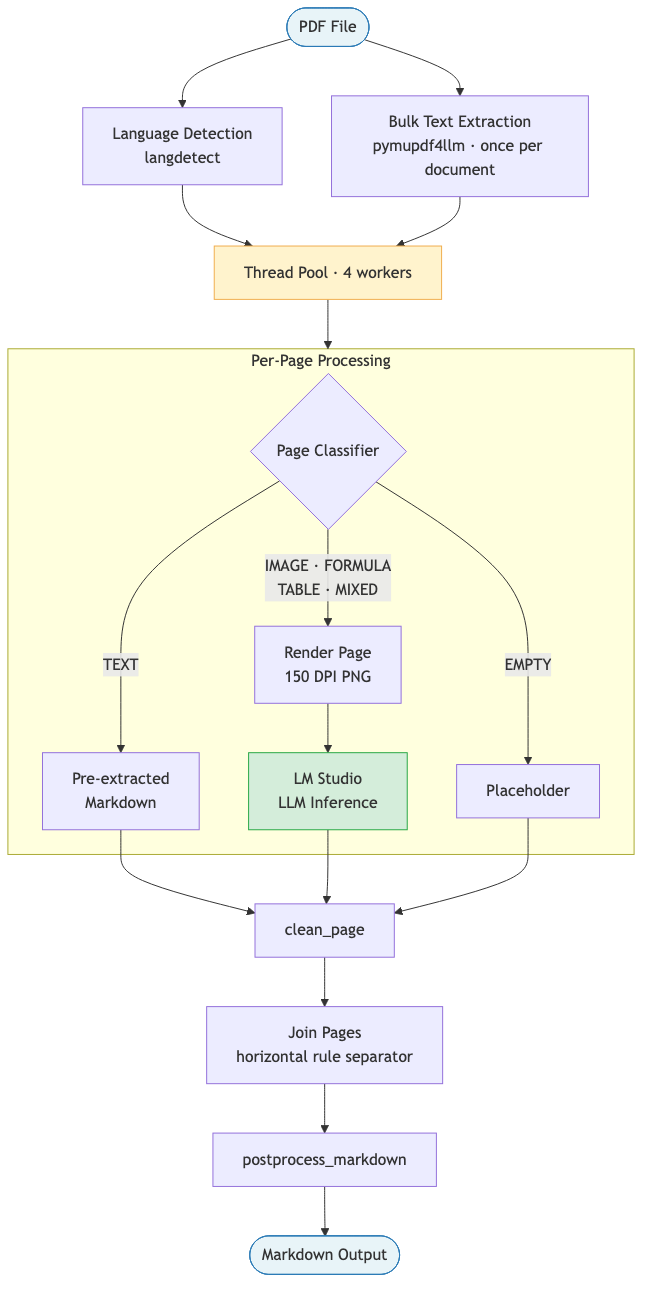
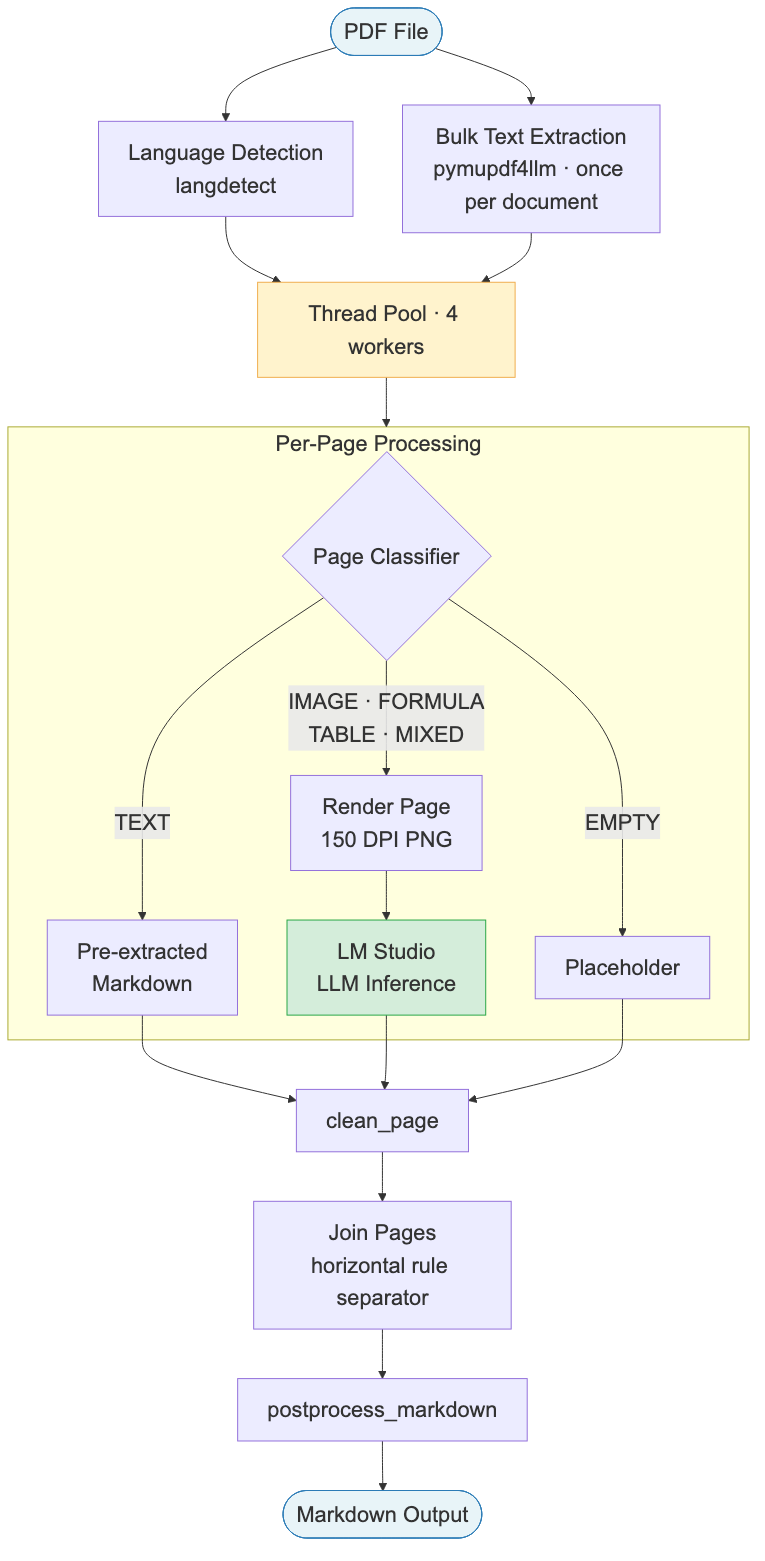
Apply professor feedback for Chapter 5: figures, postprocessing, confidence scores
Figures:
- Re-render all three diagrams at 3500px width, 22px font (text was too small)
- Add float package to preambel.tex for [H] placement
- Figure 5.1: sized to 75% textwidth, forced to end of Section 5.1
- Figure 5.2: sized to 65% textwidth; add TEXT→MIXED reroute arrow for formula images
- Figure 5.3: moved to directly after Figure 5.2, sized to 48% with height cap
- Figure 5.3 caption: rewritten to describe both pipeline stages precisely

Postprocessing section (Section 5.5):
- Restructure from dense rule list into 4 clearly labelled groups:
  structural noise, LLM artefacts, heading quality, special content
- Fix TOC handling description: adaptive TOC uses doc.get_toc() short-circuit,
  not pymupdf4llm (was factually wrong)
- Add Stage 2 closing paragraph describing postprocess_markdown passes

Postprocessing diagram:
- Remove wrong pass counts (12/5 were inaccurate)
- Fix Stage 2 items: remove abbreviation conversion and unicode superscript
  (both are Stage 1); add actual Stage 2 passes: duplicate heading removal,
  chapter heading merging, LaTeX delimiter normalisation, bibliography cleanup
- Fix Stage 1 B4: add doc.get_toc(), Greek→LaTeX, OCR superscripts

Confidence scores (Section 5.2):
- Explicitly state scores play no role in current routing (routes by type label)
- Explain why: rule-based classifier is deterministic, threshold would not help
- Mention future use for MIXED 0.5 fallback pages

Overfull hbox (Section 5.3):
[…]

diff --git a/Thesis_Paper/kapitel/kapitel5.tex b/Thesis_Paper/kapitel/kapitel5.tex
@@ -30,9 +30,9 @@ The post-processing pipeline receives the joined Markdown and applies a fixed se
 
 Figure~\ref{fig:architecture} shows the complete processing pipeline.
 
-\begin{figure}[ht]
+\begin{figure}[H]
     \centering
-    \includegraphics[width=\textwidth,height=0.55\textheight,keepaspectratio]{architecture.png}
+    \includegraphics[width=0.75\textwidth]{architecture.png}
     \caption{System architecture: from PDF input to Markdown output}
     \label{fig:architecture}
 \end{figure}
@@ -66,15 +66,22 @@ TEXT pages score the highest at 0.95. To reach that classification, a page must 
 EMPTY and IMAGE pages score 0.9. EMPTY requires fewer than ten characters, no images, and fewer than five vector paths, which is a very narrow condition. IMAGE requires more than three embedded images, which rarely appears on a text-heavy page.
 FORMULA and TABLE score 0.85 because both detectors can misfire. Vector paths above the threshold sometimes come from decorative page elements rather than formulas. PyMuPDF's table finder occasionally flags dense grid layouts that are not real tables.
 MIXED pages score either 0.75 or 0.5. Pages that carry image or formula signals but did not qualify for IMAGE, FORMULA, or TABLE --- for example, a page with one or two embedded images alongside substantial text --- score 0.75. The fallback MIXED at 0.5 catches the remaining pages: fewer than 50 characters with no images, no formulas, and no detected tables. No signal was strong enough to assign a more specific type.
-The score is stored in the \texttt{PageAnalysis} result but the current routing ignores it. A future version could use it to fall back to the hybrid strategy on low-confidence pages.
+The confidence score is stored in the \texttt{PageAnalysis} result but plays no role in the current routing logic. Pages are routed by type label alone, regardless of score. This is intentional: the rule-based classifier is deterministic, so the same signals always produce the same type and a score threshold would not change any routing decision. A future version could use the score to fall back to the hybrid strategy on genuinely ambiguous pages, where the MIXED 0.5 fallback fires.
 
 Figure~\ref{fig:classifier} shows the full decision tree.
 
 \begin{figure}[ht]
     \centering
-    \includegraphics[width=0.82\textwidth,height=0.75\textheight,keepaspectratio]{classifier.png}
+    \includegraphics[width=0.65\textwidth]{classifier.png}
     \caption{Page classifier decision tree with confidence scores}
     \label{fig:classifier}
+\end{figure}
+
+\begin{figure}[ht]
+    \centering
+    \includegraphics[width=0.48\textwidth]{postprocessing.png}
+    \caption{Two-stage post-processing pipeline: \texttt{clean\_page} applies structural, LLM artefact, heading, and special-content passes per page; \texttt{postprocess\_markdown} applies heading, running-header, and encoding passes to the full joined document}
+    \label{fig:postprocessing}
 \end{figure}
 
 \section{PDF Processing Module}
@@ -97,7 +104,7 @@ Each line's dominant font size is then compared to the body size as a ratio: lin
 This produces a lightweight Markdown representation of the text layer that the LLM receives alongside the rendered image.
 
 Image rendering converts each page to a base64-encoded PNG using PyMuPDF's pixmap renderer.
-The render resolution is 150 dots per inch (DPI), set via a \texttt{fitz.Matrix(150/72,~150/72)} scale factor, which is about twice the PDF native resolution of 72 DPI.
+The render resolution is 150 dots per inch (DPI), set via a \texttt{fitz.Matrix} scale factor of $150/72$ in both dimensions, which is about twice the PDF native resolution of 72 DPI.
 The higher resolution preserves fine detail in tables, formulas, and diagrams, which improves LLM recognition accuracy.
 The encoded string is passed directly in the API request body as a data URI, so no temporary files are written to disk for vision pages.
 The render DPI is a configurable constant, so it can be raised for documents with very dense content or lowered to reduce memory use.
@@ -147,42 +154,40 @@ The first stage runs per page via \texttt{clean\_page()}, before individual page
 The second stage runs on the full joined document via \texttt{postprocess\_markdown()}.
 Separating the two stages matters because some artefacts, such as duplicate running headers, only become visible once multiple pages are combined.
 
-The first group of passes removes structural noise introduced by the PDF format.
-Running headers are repeated chapter or section titles that PDF places at the top of every page; pymupdf4llm extracts these as plain-text lines, which the pipeline detects using a regex pattern and removes from the first line of each page chunk.
-A second pass removes them again mid-document, where they appear as isolated paragraphs surrounded by blank lines.
-Lone page-number paragraphs consisting of one to three Arabic digits or Roman numerals are also stripped.
-Several further passes remove artefacts specific to LLM output.
-One strips decorative horizontal rules that appear directly after a heading, which come from PDF underlines misread as Markdown separators.
-Another removes prompt instruction text that some models copy verbatim into their output.
-A third strips \texttt{```markdown} fences that some models place around their entire response: the fence is valid syntax for a code block but not for the top-level document.
-Table-of-contents pages and front-matter list pages (List of Figures, List of Tables, List of Listings, and the abbreviations list) each receive a dedicated pass.
-These pages are classified as TEXT and processed entirely by pymupdf4llm without invoking the LLM.
-The postprocessing pass converts the pipe-table structure that pymupdf4llm produces into a clean nested Markdown list, inferring heading hierarchy from section-number prefixes, and removes dot leaders, the sequences of dots or spaces used to connect section titles to page numbers in a printed layout, which have no meaning in Markdown.
+The first group removes structural noise introduced by the PDF format.
+Running headers are repeated chapter or section titles that PDF places at the top of every page.
+pymupdf4llm extracts these as plain-text lines; the pipeline detects them by pattern and removes them from the first line of each page chunk.
+Lone page-number paragraphs consisting of Arabic digits or Roman numerals are also stripped.
 
-The second group targets heading quality.
+The second group removes artefacts specific to LLM output.
+Decorative horizontal rules that appear directly after a heading are stripped; these come from PDF underlines misread as Markdown separators.
+Prompt instruction text that some models copy verbatim into their output is removed.
+\texttt{```markdown} fences that some models place around their entire response are stripped: the fence is valid syntax for a code block but not for the top-level document.
+
+The third group targets heading quality.
 pymupdf4llm often collapses all headings to the same level (\texttt{\#\#}), so the pipeline re-assigns levels based on section-number patterns: a line matching \texttt{1.1.1 Title} becomes \texttt{\#\#\#}, a line matching \texttt{1.1 Title} becomes \texttt{\#\#}, and a standalone chapter title becomes \texttt{\#}.
-A separate pass merges the cases where the section number and its title were emitted as two consecutive heading lines at the same level.
-A further pass handles cases where pymupdf4llm emits a bare section number with no title text, for example \texttt{\#\# 1.1} with nothing after it. The pipeline looks up the full section title in the raw PyMuPDF text for the same page and patches the heading, recovering titles that the layout extraction missed.
-Headings that are single words with no recognised structural keyword (such as a person's name promoted by bold font), headings whose entire content is italic, and headings that are really numbered source-code listing lines are all demoted to plain or list text.
-Title-page metadata lines promoted by bold styling are demoted to plain text by identifying everything before the first structural front-matter section (Erkl\"{a}rung, Abstract, Inhaltsverzeichnis).
-Duplicate headings produced by mid-document running headers are removed by tracking all seen heading texts and dropping any unnumbered repetition of an already-seen numbered heading.
+A separate pass merges cases where the section number and its title were emitted as two consecutive heading lines at the same level.
+A further pass handles bare section numbers with no title text: the pipeline looks up the full title in the raw PyMuPDF text for the same page and patches the heading, recovering titles that the layout extraction missed.
+Headings that are single words with no recognised structural keyword, headings whose entire content is italic, and headings that are really numbered source-code listing lines are all demoted to plain or list text.
 
-The remaining passes handle figures, captions, and encoding.
-Bold-formatted figure caption lines produced by pymupdf4llm are converted to italic and placed directly below their image link; captions that appear before their image are swapped.
-OCR text blocks that pymupdf4llm extracts from embedded figures and wraps in marker lines are removed. The OCR output is redundant since the figure is already included as a Markdown image link, and retaining it adds noise.
-Single non-word Unicode symbols wrapped in italic markers (such as \texttt{\_{}$\Rightarrow$\_{}}) have the markers stripped.
-OCR superscript artefacts of the form \texttt{\_{}EMC\_{}[2]} are replaced with the Unicode superscript character (\texttt{EMC\textsuperscript{2}}).
+The fourth group handles special content: table-of-contents pages, list pages, figures, and encoding.
+In the adaptive strategy, TOC pages are handled before per-page extraction runs.
+The pipeline reads the PDF bookmark outline directly via \texttt{doc.get\_toc()} and formats it as a nested Markdown list with display page labels.
+The first TOC page receives this list; continuation pages are left empty.
+This bypasses pymupdf4llm entirely for TOC pages, avoiding the noisy pipe-table output it produces for these pages.
+Front-matter list pages (List of Figures, List of Tables, and Listings) are classified as TEXT and processed by pymupdf4llm, then a dedicated pass converts the pipe-table structure into clean Markdown and removes dot leaders.
+Bold-formatted figure caption lines are converted to italic and placed directly below their image link; captions that appear before their image are swapped.
+OCR text blocks that pymupdf4llm extracts from embedded figures are removed: the figure is already included as a Markdown image link, so the OCR output adds noise.
+Italic spans containing only Greek letters are converted to inline LaTeX (e.g.\ \texttt{\_φ\_} $\to$ \texttt{\$\textbackslash varphi\$}).
+OCR superscript artefacts of the form \texttt{\_EMC\_[2]} are replaced with Unicode superscript characters.
+
+The second stage repeats some of these on the joined document, where page-spanning artefacts only become visible.
+Duplicate running headers that cross page boundaries are removed a second time.
+Title-page metadata lines and chapter headings split across pages are merged.
+Heading demotion passes run again on the full document.
 LaTeX math delimiters in the \texttt{\textbackslash(...\textbackslash)} and \texttt{\textbackslash[...\textbackslash]} styles are normalised to the \texttt{\$...\$} and \texttt{\$\$...\$\$} forms used throughout the output.
 
 Figure~\ref{fig:postprocessing} shows all passes in both stages.
-
-\clearpage
-\begin{figure}[ht]
-    \centering
-    \includegraphics[width=0.85\textwidth,height=0.70\textheight,keepaspectratio]{postprocessing.png}
-    \caption{Post-processing pipeline: per-page and full-document stages}
-    \label{fig:postprocessing}
-\end{figure}
 
 \section{Implementation Details}
 

diff --git a/Thesis_Paper/preambel.tex b/Thesis_Paper/preambel.tex
@@ -11,6 +11,8 @@
 % Wo sind die Bilder?
 \graphicspath{{bilder/}}
 
+\usepackage{float}
+
 % Wo liegt Sourcecode?
 \newcommand{\srcloc}{src/}
 
